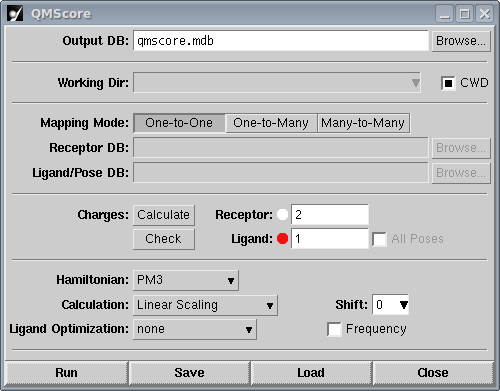
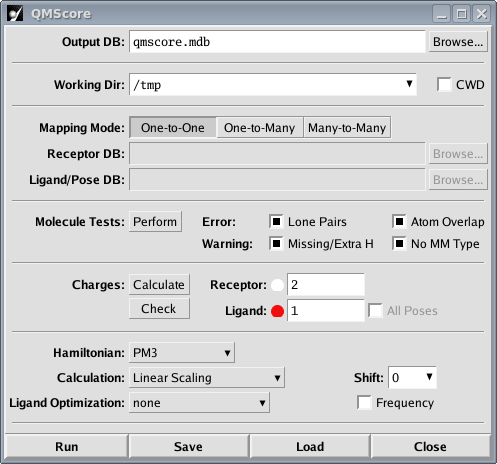
One-to-Many run done.  Documentation done.
git-svn-id: https://svn.quantumbioinc.com/MOEDivcon/trunk@5210 0241862a-156b-41b8-859c-7af79c85dedb

Changed region(s): [[0.0, 0.0, 0.996, 1.0]]

diff --git a/doc/help-qmscore.html b/doc/help-qmscore.html
@@ -271,6 +271,10 @@ is located (assuming you have 4 processors on your workstation):
 <pre>
 &gt; moebatch -mpu 4 -exec "run ['qmsbatch.svl', ['qmscore.mdb']]" -exit
 </pre>
+Or alternatively, close the MOE Database Viewer and click the <w>Run</w> button
+and the jobs will be executed sequentially in the current MOE session (not
+recommended for large proteins).
+<p>
 MOEDivcon will print out progress messages for one of the jobs.  When all
 four jobs are completed, open <inline>qmscore.mdb</inline> in the MOE
 Database Viewer.  You should see results similar to these:
@@ -332,14 +336,14 @@ you are able to select which tests are performed during setup.
 You should turn off the tests only if you are sure the receptor(s) and ligand(s)
 have been cleaned up and are correctly parsed by MOE.
 <p>
-The selected tests are performed on the receptor and ligand in the MOE Window
-when you click <w>Run</w> or <w>Save</w> in <w>One-to-One</w> or
+The "Error" tests are always performed on the receptor and ligand in the MOE
+Window when you click <w>Run</w> or <w>Save</w> in <w>One-to-One</w> or
 <w>One-to-Many</w> mode.  If any problems  that will cause Divcon to fail are
 detected, you are asked whether you wish to continue.  The selected tests are
 also performed on any receptors and/or ligands/poses as they are copied into
 the QMScore database in <w>One-to-Many</w> or <w>Many-to-Many</w> mode.  The
 results of the tests are stored in the <w>Status</w> field of the QMScore
-database allowing you to verify them.
+database so that you to verify the test results.
 <p>
 The "Error" tests are always performed by MOEDivcon before passing the
 receptor and ligand to Divcon for calculation.  If any of the "Error" tests
@@ -352,15 +356,22 @@ statement has the following format:
 <pre>
 AtomIndex : AtomName in ResidueName ResidueIndex
 </pre>
-where the atom index is for the molecule, not the residue.
+where the atom index is for the molecule, not the residue.  Below is an
+example error and warning tests report.
+<p>
+<object id="QMScoreErrorReport" title="QMScore Error and Warning Tests Report"
+data="images/qmscoreerrorreport.png" type=image/png>
+QMScore Error and Warning Tests Report
+</object>
+<p>
 
 <h3><a name="test-lp"></a>Lone Pairs</h3>
 <p>
 This is an "Error" test.
-Divcon doesn't recognize MOE's <inline>LP</inline> (lone pair) atom element and
+Divcon doesn't recognize MOE's <inline>LP</inline> (lone pair) element name and
 will immediately abort the calculation of a molecule that contains one.  The
 most likely reason for a lone pair appearing in a molecule is that MOE had
-problems parsing a PDB file, in particular the <w>Atom Name</w> field.
+problems parsing a PDB file, in particular the Atom Name field.
 
 <h3><a name="test-overlap"></a>Atom Overlap</h3>
 <p>
@@ -371,13 +382,15 @@ atom overlap; that is, whether any two atoms in the ligand are too close to
 each other, or any two atoms in the receptor collection, which may include 
 solvents, cofactors, etc.  This test detects structural problems that may be
 difficult to see with a 3D molecular viewer.
+<p>
+Note:  for large proteins, this can be a time consuming test.
 
 <h3><a name="test-h"></a>Missing/Extra H</h3>
 <p>
 This is a "Warning" test.
-The most common reasons for a missing H is a truncated residue in a protein
-and a misinterpreted bond order in ligands.  The most common reason for an
-extra protein is a carbonyl (C=O) misinterpreted as an alcohol (COH).   Other
+The most common reasons for a missing H are truncated residues in proteins
+and misinterpreted bond orders in ligands.  The most common reason for an
+extra H in proteins are protonated carbonyl oxygens (C=O&rarr;C=OH).   Other
 problems are caused by incorrect charges, metal coordinations, etc.
 <p>
 This test can also generate false positives.  MOEDivcon already filters out
@@ -393,7 +406,9 @@ This is a "Warning" test.  If MOE was unable to determine the molecular
 mechanics atom type, it's very likely that there is a serious problem with
 the structure.  If an atom has a problem detected by the other tests, it 
 is often listed under this test as well.  It also detects problems not
-caught by the other tests.
+caught by the other tests such as truncated residues, incorrect charges on
+metals, incorrect bond orders on sulphates, sulfoxides, sulfonyls, 
+phosphates, and orthovanadate ions, metal coordinations problems, etc.
 <p>
 It is recommended that you verify the correctness of the molecular structure
 if you receive this warning.
@@ -910,39 +925,49 @@ Problematic charge for receptor and/or ligand.  Continue anyway?
   <li><p><prob>
     In the <w>Status</w> field of the QMScore database, I get the message:
     <pre>
-Error:  Problematic molecule in receptor and/or ligand.
+Error:  Problematic receptor and/or ligand.
+    </pre>
+or
+    <pre>
+Warning:  Problematic receptor and/or ligand.
     </pre>
     </prob><p><sol>
-    You should get a warning about a problematic molecule when creating or
-    saving a QMScore database.  An error message is stored when MOE/moebatch
- attempts to run a
-job and detects there are still problems with the molecules.  You should also
-get another message clarifying the problem detected, such as:
-    <pre>
-Ligand must to be a single molecule.
-    </pre>
-You can use your favorite molecule editor to fix the problem using the original
-molecule file, then rebuild the QMScore database using the modified molecule
-file.
+    You should get error or warning messages about a problematic molecules when 
+    creating or saving a QMScore database (see the 
+    <a href="#test">Molecule Tests</a> section for more information).
+    You can right-click on the problematic molecule in the MOE Database Viewer,
+    select <w>Send to MOE</w> from the popup menu, cleanup the molecule with
+    MOE's suite of tools, then save it back in the database by right-clicking
+    on the same molecule in the MOE  Database Viewer and
+    selecting <w>Get from MOE</w> from the popup menu.  You may also wish to
+    save the cleaned up molecule in it's original format.
+    <p>
+    You can also use your favorite molecule editor to fix the problems using
+    the original molecule files, then rebuild the QMScore database using the
+    modified molecule files.
   </sol>
   <li><p><prob>
     In the <w>Status</w> field of the QMScore database, I get the message:
     <pre>
-Warning:  Problematic charge for receptor and/or ligand.
-    </pre>
-or
-    <pre>
 Error:  Problematic charge for receptor and/or ligand.
     </pre>
     </prob><p><sol>
-You should get a warning about a problematic charge when creating or saving a
-QMScore
-database.  An error message is stored when MOE/moebatch attempts to run a
-job and detects there are still problems with the charges.  You can address the
-charge problem by correcting the molecule using your favorite molecule editor
-and rebuilding the QMScore database using the modified molecule file.  Or you
-can simply edit the charge in the MOE database (see the
-<a href="#charge-editing">charge</a> section).
+    You should get a error messages about problematic charges when creating 
+    or saving a QMScore database.  The preferred solution is to cleanup the
+    molecule:  Right-click on the problematic molecule in the MOE Database
+    Viewer,
+    select <w>Send to MOE</w> from the popup menu, cleanup the molecule with
+    MOE's suite of tools, then save it back in the database by right-clicking
+    on the same molecule in the MOE  Database Viewer and
+    selecting <w>Get from MOE</w> from the popup menu.  You may also wish to
+    save the cleaned up molecule in it's original format.
+    <p>
+    You can also use your favorite molecule editor to fix the problems using
+    the original molecule files, then rebuild the QMScore database using the
+    modified molecule files.
+    <p>
+    Or you can simply edit the charge in the MOE database (see the
+    <a href="#charge-editing">charge</a> section).
   </sol>
   <li><p><prob>
     I get the MOE message:
